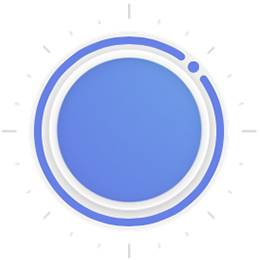
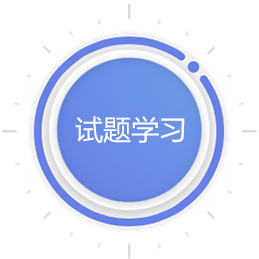
图片和页面
home/footNav/newsDetails/learning

diff --git a/zhongdun/src/pages/learning/learning.vue b/zhongdun/src/pages/learning/learning.vue
@@ -1,0 +1,144 @@
+<template>
+  <div id="learning">
+    <div class="header">
+      <x-header :left-options="{backText: ''}"  style="background-color:#f5f5f5;">
+        <a slot="overwrite-left" class="goBack" :style="borderColor" v-on:click="back"></a>
+        众盾安全
+      </x-header>
+    </div>
+    <div class="banner_learning">
+      <swiper auto height="100px" dots-position="center">
+      <swiper-item class="banner_learning_img"><img src="../../images/study_banner1.jpg" alt=""></swiper-item>
+      <swiper-item class="banner_learning_img"><img src="../../images/study_banner1.jpg" alt=""></swiper-item>
+    </swiper>
+    </div>
+    <div class="learning_box">
+      <flexbox :gutter="0" wrap="wrap" class="video_box">
+        <flexbox-item :span="3">
+          <div class="learning_box_list">
+            <img src="../../images/video_icon2.jpg" alt="我的课程" class="learning_box_list_icon">
+            <span>我的课程</span>
+          </div>
+          <div class="learning_box_list">
+            <img src="../../images/video_icon3.jpg" alt="视频学习" class="learning_box_list_icon">
+            <span>视频学习</span>
+          </div>
+        </flexbox-item>
+        <flexbox-item :span="6">
+          <div class="learning_box_list"><img src="../../images/video_icon1.png" alt=""></div>
+        </flexbox-item>
+        <flexbox-item :span="3">
+          <div class="learning_box_list">
+            <img src="../../images/video_icon4.jpg" alt="" class="learning_box_list_icon">
+            <span>免费试听</span>
+          </div>
+          <div class="learning_box_list">
+            <img src="../../images/video_icon5.jpg" alt="" class="learning_box_list_icon">
+            <span>名师介绍</span>
+          </div>
+        </flexbox-item>
+      </flexbox>
+      <flexbox :gutter="0" wrap="wrap" class="study_box">
+        <flexbox-item :span="3">
+          <div class="learning_box_list">
+            <img src="../../images/test_icon2.jpg" alt="" class="learning_box_list_icon">
+            <span>我的课程</span>
+          </div>
+          <div class="learning_box_list">
+            <img src="../../images/test_icon3.jpg" alt="" class="learning_box_list_icon">
+            <span>视频学习</span>
+          </div>
+        </flexbox-item>
+        <flexbox-item :span="6">
+          <div class="learning_box_list"><img src="../../images/test_icon1.jpg" alt=""></div>
+        </flexbox-item>
+        <flexbox-item :span="3">
+          <div class="learning_box_list">
+            <img src="../../images/test_icon4.jpg" alt="" class="learning_box_list_icon">
+            <span>免费试听</span>
+          </div>
+          <div class="learning_box_list">
+            <img src="../../images/test_icon5.png" alt="" class="learning_box_list_icon">
+            <span>名师介绍</span>
+          </div>
+        </flexbox-item>
+      </flexbox>
+    </div>
+    <foot-nav></foot-nav>
+  </div>
+</template>
+
+<script>
+import { XHeader,Flexbox, FlexboxItem,Swiper,SwiperItem} from 'vux'
+import footNav from 'src/components/footNav'
+export default {
+  components: {
+    XHeader,
+    Flexbox, 
+    FlexboxItem,
+    Swiper,
+    SwiperItem,
+    footNav
+  },
+  data () {
+    return {
+       borderColor: {
+        borderColor: '#333'
+      },
+    }
+  },
+  methods:{
+   back(){
+        this.$router.go(-1);//返回上一层
+    },
+  }
+}
+</script>
+
+<style scoped>
+body, html{
+  background: #fff;
+}
+	.goBack {
+  position: absolute;
+  width: 12px;
+  height: 12px;
+  border-style: solid;
+  border-color: white;
+  border-width: 1px 0 0 1px;
+  -webkit-transform: rotate(315deg);
+  transform: rotate(315deg);
+  top: 5px;
+}
+.banner_learning_img img{
+  width: 100%;
+  display: block;
+}
+.learning_box{
+  background: #fff;
+  padding:1rem .5rem;
+  padding-bottom: 2rem; 
+
+}
+.video_box{
+  padding-top: 1rem;
+ /* padding-bottom: 1rem;*/
+}
+.learning_box_list{
+  text-align: center;
+  position: relative;
+  padding-bottom: 1rem;
+}
+.learning_box_list img{
+  width: 80%;
+  display: block;
+  margin:0 auto;
+}
+.learning_box_list .learning_box_list_icon{
+  width: 50%;
+}
+.learning_box_list span{
+  color: #020202;
+  font-size: .7rem;
+}
+</style>

diff --git a/zhongdun/src/pages/home/home.vue b/zhongdun/src/pages/home/home.vue
@@ -23,19 +23,19 @@
     </div>
     <div class="module_block">
       <div class="module_block_list">
-         <router-link to="/enter" class="module_block_a">
+         <router-link to="/step1" class="module_block_a">
             <img src="../../images/icon1.png" alt="">
             <p>在线报名</p>
          </router-link>
-         <router-link to="/enter" class="module_block_a">
+         <router-link to="/learning" class="module_block_a">
             <img src="../../images/icon2.png" alt="">
             <p>课程学习</p>
          </router-link>
-         <router-link to="/enter" class="module_block_a">
+         <router-link :to="{ path: '/newslist', query: {id:196}}" class="module_block_a">
             <img src="../../images/icon3.png" alt="">
             <p>发现问题</p>
          </router-link>
-         <router-link to="/enter" class="module_block_a">
+         <router-link to="/learning" class="module_block_a">
             <img src="../../images/icon4.png" alt="">
             <p>试题学习</p>
          </router-link>
@@ -65,7 +65,7 @@
         <router-link to="/enter" class="more_link">全部></router-link>
       </div>
       <div class="module_block_list hot_module_list" style="padding-bottom: 0;">
-        <router-link to="/enter" class="hot_module_a">
+        <router-link to="/step1" class="hot_module_a">
             <p>报名</p>
            <img src="../../images/bao1.png" alt="">
         </router-link>
@@ -73,7 +73,7 @@
             <p>机构介绍</p>
            <img src="../../images/bao2.png" alt="">
         </router-link>
-         <router-link to="/enter" class="hot_module_a" style="border-right: none;">
+         <router-link :to="{ path: '/newslist', query: {id:196}}" class="hot_module_a" style="border-right: none;">
             <p>重点资讯</p>
            <img src="../../images/bao3.png" alt="">
         </router-link>
@@ -95,13 +95,15 @@
           </div>
           <ul>
             <li class="news_list_li" v-for="list in item.articles">
-              <p class="ellipsis">
-                {{list.post_title}}
-              </p>
-              <div class="news_imfor_box">
-                <span class="news_imfor_txt">众盾安全</span>
-                <span class="news_time">{{list.published_time | formatDate}}</span>
-              </div>
+               <router-link :to="{ path: '/newsDetails', query: {id:list.id,cid:list.category_id}}">
+                <p class="ellipsis">
+                  {{list.post_title}}
+                </p>
+                <div class="news_imfor_box">
+                  <span class="news_imfor_txt">众盾安全</span>
+                  <span class="news_time">{{list.published_time | formatDate}}</span>
+                </div>
+              </router-link>
             </li>
           </ul>
         </div>

diff --git a/zhongdun/src/pages/news/children/newsDetails.vue b/zhongdun/src/pages/news/children/newsDetails.vue
@@ -15,7 +15,7 @@
           <span>作者：admin</span>
           <span>来源：互联网</span>
         </p> -->
-        <span>{{listText.published_time | formatDate}}</span>
+        <span class="news_details_time">{{listText.published_time | formatDate}}</span>
       </div>
 
       <div class="news_details_text" v-html="post_content">
@@ -73,6 +73,17 @@ export default {
 </script>
 
 <style scoped>
+*{
+  font-size: 14px;
+}
+body, html{
+  background: #fff;
+}
+strong, b {
+  font-weight: bold;
+  font-size: 16px;
+  line-height: 1rem;
+}
 	.goBack {
   position: absolute;
   width: 12px;
@@ -85,16 +96,24 @@ export default {
   top: 5px;
 }
 .news_box{
-  padding:.5rem;
+  padding:.5rem .7rem;
 }
 .news_details_title{
   width: 100%;
   color: #1a1a1a;
-  font-size: .7rem;
+  font-size: 1rem;
   font-weight: bold;
   letter-spacing: .1rem;
+  line-height: 1.5rem;
 }
 .news_details_text{
-
+  line-height: 1rem;
+}
+.news_details_time{
+  color: #b2b2b2;
+  padding: .5rem 0;
+}
+.news_details_time img{
+  width: 100%;
 }
 </style>

diff --git a/zhongdun/src/components/footNav.vue b/zhongdun/src/components/footNav.vue
@@ -1,14 +1,14 @@
 <template>
 <div class="footer_nav">
-  <section @click = "gotoAddress({path: '/', query: {geohash}})" class="footer_nav_item">
+  <section @click = "gotoAddress({path: '/step1', query: {geohash}})" class="footer_nav_item">
     <img src="../images/banner.png" alt="">
     <span>报名</span>
   </section>
-   <section @click = "gotoAddress({path: '/', query: {geohash}})" class="footer_nav_item">
+   <section @click = "gotoAddress({path: '/learning', query: {geohash}})" class="footer_nav_item">
     <img src="../images/banner.png" alt="">
     <span>学习</span>
   </section>
-  <section @click = "gotoAddress({path: '/', query: {geohash}})" class="footer_nav_item" style="padding: 0;">
+  <section @click = "gotoAddress({path: '/home', query: {geohash}})" class="footer_nav_item" style="padding: 0;">
     <div class="home-img">
       <img src="../images/banner.png" alt="">
     </div>
